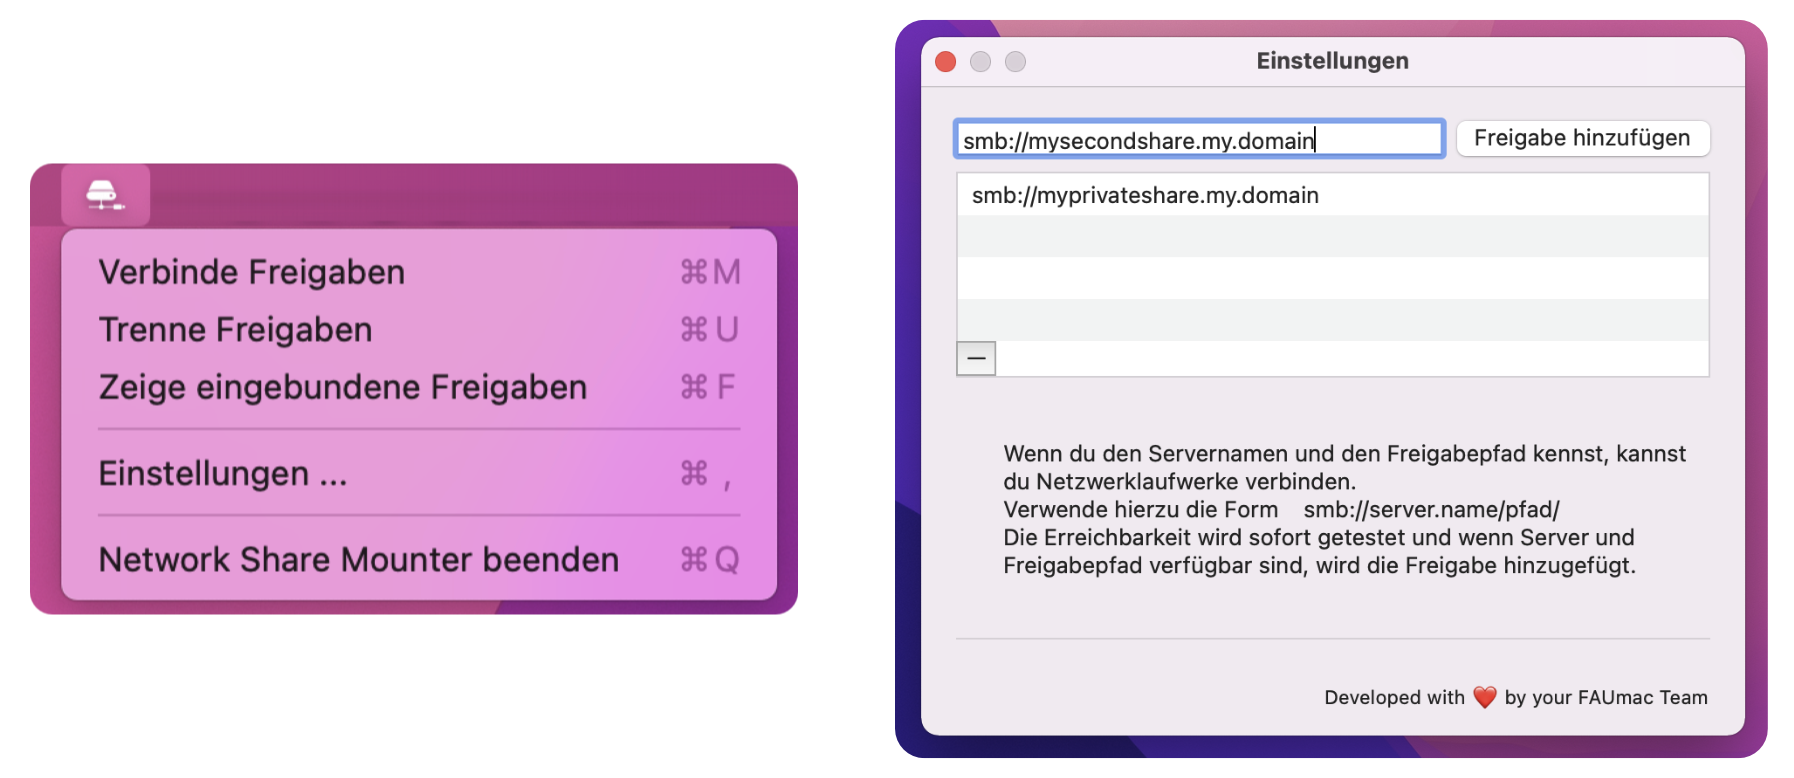
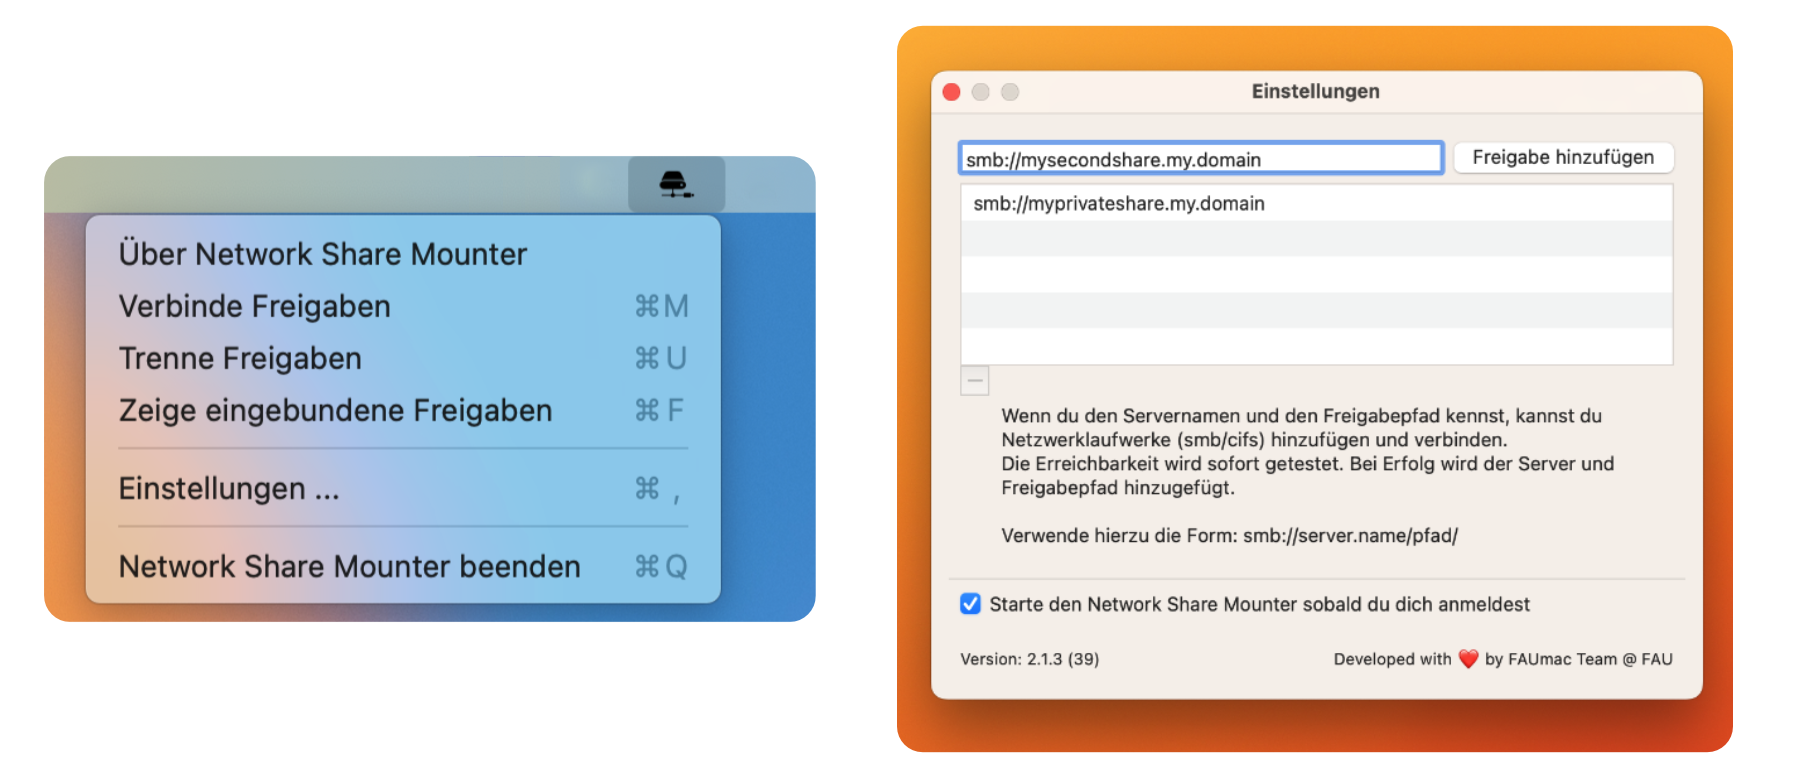
Update README.md and upload new screenshot
- remove doc for the legacy app
- update screenshot with updated gui elements
-

diff --git a/README.md b/README.md
@@ -1,100 +1,77 @@
-# <img src="networkShareMounter.png" alt="drawing" width="90px"/> networkShareMounter
+# <img src="networkShareMounter.png" alt="drawing" width="90px"/> Network Share Mounter 
 
-In a university, there is a requirement that departments have specific SMB shares on their own network that users should mount. In the same way, in a company - depending on the department or location - there could also be different shares that are to be used. The idea behind the networkShareMounter is that there is a single application that takes care of mounting a list of network shares in an enterprise or university environment. Such a list of shares will be ideally distributed as configuration profiles with an MDM based on workgroups, departments, project-groups etc.
+In a university or company envirement there is usually the requirement to mount specific SMB shares depending on departments or locations - usually even several shares depending on the current location. The macOS in-build way to mount shares isn't very userfriendly or a good solutions for enterprise envirements. Therefore solutions using scripts or other tools are often static and inflexible for users. In order to create a prefect solution for administrators _and_ end users, we developed the Network Share Mounter.
 
-Based on the network accessibility, the shares are mounted in the background without any user interaction. Even if a mount fails (e.g. if the share is unreachable), no GUI will be displayed. A Kerberos environment is therefore recommended so that no authentication is required for a mount. Alternatively, the user credentials can also be stored in the user's keychain by manually mounting a share once. So please note that no notification will be displayed if the credantials are invalid or unavailable!  
+The idea behind Network Share Mounter is that a single application takes care of mounting a list of network shares. The share list is ideally distributed as a configuration profile with an MDM solution based on workgroups, departments, project groups, etc. If a user needs additional shares, besides the managed ones, a user can add shares by himself in the menu bar.   
+Based on the network accessibility, shares are mounted in the background without any user interaction. Even if a mount fails (e.g. if the share is unreachable), no GUI will be displayed. A Kerberos environment is therefore recommended so that no authentication is required for a mount. Alternatively, the user credentials can also be stored in the user's keychain by manually mounting a share once. So please note, that no notification will be displayed if the credantials are invalid or unavailable!  
 
 **Configuration**  
-Network shares are stored in a NSUserdefaults domain among other configurable aspects of the app. The easiest way to do this is to create a configuration profile and distribute is via MDM. Alternatively, the configuration can also be done manually via the command line. As a tip: to avoid creating a profile for every user, use %USERNAME% which will be replaced with the login name of the current user. See [configuration preferences](#configuration-preferences) in v2 for all available values. 
+Network shares are stored in a NSUserdefaults domain among other configurable aspects of the app. The easiest way to configure the app is to create a configuration profile and distribute the profile via MDM. Alternatively, the configuration can also be done manually via the command line (i.g. defaults).   
+As a tip: to avoid creating a profile for every user, use `%USERNAME%` which will be replaced with the login name of the current user. See [configuration preferences](#configuration-preferences) for all available values. 
 
 **SMBHome**  
-If the current user has the attribute `SMBHome` defined via LDAP or Active Directory, the user home will also be mounted automatically. This is usually the case when the Mac is bound to an Active Directory and the LDAP attribute `HomeDirectory` is set. You can also set it for a local user if you want: `dscl . create /Users/<yourusername> SMBHome \home.your.domain<yourusername>`.
+If the current user has the attribute `SMBHome` defined via LDAP or Active Directory, the user home will be mounted automatically. This is usually the case when the Mac is bound to an Active Directory and the LDAP attribute `HomeDirectory` is set. If necessery, you can set the attribute for a local user manuelly:  
+ `dscl . create /Users/<yourusername> SMBHome \home.your.domain<yourusername>`.
 
-**v2 and Legacy?**  
-Staring with December 2021 there are two different versions of the app: The [background LaunchAgent comamnd line application](#networksharemounter-legacy-the-command-line-app) legacy app (not under active development anymore) and a [menu bar based app](#network-share-mounter-v2) with more configuration options and features for end users. 
+### ⚙ Configuration preferences
+For an easier configuration of all the preference keys without creating or modifying a custom Configuration Profile in XML format we provieded a JSON Manifest Schema for Jamf Pro. [Download the manifest file](https://gitlab.rrze.fau.de/faumac/networkShareMounter/-/blob/master/jamf-manifests/Network%20Share%20Mounter.json). We also added a manifest to the [iMazing Profile Edior](https://imazing.com/profile-editor). 
 
-## Network Share Mounter (v2)
-The *Network Share Mounter* app is loosely based on the code of the command line version. It lives in the user's menu bar and is more visible and manageable for the user, as it has the possibility to add some (additional personal) shares to be mounted or the user can decide if the app will be automatically started on login. 
+ The defaults domain for v2 is `de.fau.rrze.NetworkShareMounter`. Available payload values: 
 
-### Configuration preferences
-For an easier configuration of all the preference keys without creating or modifying a custom Configuration Profile in XML format we provieded a JSON Manifest Schema for Jamf Pro. [Download the manifest file](https://gitlab.rrze.fau.de/faumac/networkShareMounter/-/blob/master/jamf-manifests/Network%20Share%20Mounter.json). 
-
- The defaults domain for v2 is `de.fau.rrze.NetworkShareMounter`. List with all available values: 
-
-| Key                 | Type  | Description            | Default Value | Aviable in version | Required? | Example |
+| Key                 | Type  | Description            | Default value | Aviable with version | Required? | Example |
 | :------------------ | :---- | :---------------------|:-------------------------------------- | --------------------------------- | ------- | ---- |
-| `networkShares`     | Array | Array with all (SMB) network shares. For example configured through a MDM. Note: %USERNAME% will be replaced with the current user's login name.| - | all | - |`smb://filer.your.domain/share`<br />`smb://homefiler.your.domain/%USERNAME%`|
-| `customNetworkShares` | Array | Array with all user configured (SMB) network shares. It's not recommend to set this array via MDM | - | all | optional |`smb://myhomefiler.my.domain/share`|
-| `autostart` | Boolean | If set, the app will be launched on user-login | false | >=2.0.0 | optional ||
-| `canQuit` | Boolean | If set, the user can quit the app | true | >=2.0.0 | optional ||
-| `canChangeAutostart` | Boolean | If set to false, the user can not change the Autostart option | true | >=2.0.0 | optional ||
-| `unmountOnExit` | Boolean | If set to false the shares will be mounted after quitting the app | true | >=2.0.0 | optional ||
-| `location` | String | Path where network shares will be mounted. Leave blank for the default value (highly recommended) | - | >=2.1.0 | optional | `/Volumes` |
-| `cleanupLocationDirectory` | Boolean | * Directories named like the designated mount points for shares will be deleted, independently of the `cleanupLocationDirectory` flag. * Directories named like the shares with a "-1", "-2", "-3" and so on will also be deleted independently of the the flag. * If set to true, the mount location will be cleaned up from files defined in the `filesToDelete` array. (The previous settings where too dangerous 😉)| false | >=2.1.0 | - | `false` |
-| `helpURL` | String | Configure a help URL to help users interact with the application | - | >=2.0.0 | optional |https://www.anleitungen.rrze.fau.de/betriebssysteme/apple-macos-und-ios/macos/#networksharemounter|
+| `networkShares`     | Array | Array with all (SMB) network shares.    <br />Note: `%USERNAME%` will be replaced with the login name of the current user. | - | all | - |`smb://filer.your.domain/share`<br />`smb://homefiler.your.domain/%USERNAME%`|
+| `customNetworkShares` | Array | Array with all user configured (SMB) network shares. <br />It's not recommend to configure this array via MDM. | - | all | optional |`smb://myhomefiler.my.domain/share`|
+| `autostart` | Boolean | If true, the app will be launched upon user login. | false | >=2.0.0 | optional ||
+| `canQuit` | Boolean | If true, the user can exit the app in the menu bar. | true | >=2.0.0 | optional ||
+| `canChangeAutostart` | Boolean | If set to false, the user can not change the autostart option. | true | >=2.0.0 | optional ||
+| `unmountOnExit` | Boolean | If set to false, the shares will be mounted after quitting the app. | true | >=2.0.0 | optional ||
+| `location` | String | Path where network shares will be mounted. <br />Leave blank for the default value *(highly recommended)* | - | >=2.1.0 | optional | `/Volumes` |
+| `cleanupLocationDirectory` | Boolean | 1) Directories named like the designated mount points for shares will be deleted, independently of the `cleanupLocationDirectory` flag.    <br /><br />2) Directories named like the shares with a "-1", "-2", "-3" and so on will also be deleted independently of the the flag.    <br /><br />3) If set to true, the mount location will be cleaned up from files defined in the `filesToDelete` array.   <br />*(The previous setting where too dangerous)* | false | >=2.1.0 | - | `false` |
+| `helpURL` | String | Configure a website link to help users interact with the application. | - | >=2.0.0 | optional |https://www.anleitungen.rrze.fau.de/betriebssysteme/apple-macos-und-ios/macos/#networksharemounter|
 
-#### Important note for `location` and `cleanupLocationDirectory` values
-If `location` is left empty (or is not defined), a directory is created in a subdirectory of the user's home where the network drives will be mounted. Since this directory always contains only mounted network shares, there is a routine that cleans up this directory and deletes unnecessary files and directories.    
-If another directory is used to mount the network drives (like `location` set to, for example, `/Volumes`) **it is strongly recommended** to disable the cleanup routine by setting `cleanupLocationDirectory` to `false`.
+#### ⚠ Important note for `location` and `cleanupLocationDirectory` values
+If the value `location` left empty (or undefined), the directory (`~/Netzlaufwerk`) will be created as a subdirectory of the user's home where the network shares will be mounted. Since this directory always contains only mounted network shares, there is a routine to clean up this directory and deletes unnecessary files and directories.    
+If another directory is used to mount the network drives (like `location` = `/Volumes`) **it is strongly recommended** to disable the cleanup routine by setting `cleanupLocationDirectory` to `false` !
 
 ### Screenshots
-Screenshots of our Network Share Mounter app. On the left the menu bar icon with the mount, unmount and quit options. On the right the configuration window with the custom network share list:
+Screenshots of the Network Share Mounter app. On the left the menu bar icon with the mount, unmount and quit option. On the right the configuration window with the custom network share list.
 
 <img src="networkShareMounterv2Screenshot.png" />  
 
-----  
-
-## networkShareMounter Legacy (the command line app)
-
-The legacy networkShareMounter is started by a [LaunchAgent](https://gitlab.rrze.fau.de/faumac/networkShareMounter/-/blob/master/networkShareMounter/de.uni-erlangen.rrze.networkShareMounter.plist) at every network change (for automatic remounting) and when a user logs in. This process is done in the background, without any user interaction. 
-
-### How to configure the command line app
-
-The defaults domain for our [pre-built package](https://gitlab.rrze.fau.de/faumac/networkShareMounter/-/releases) is `de.uni-erlangen.rrze.networkShareMounter`. If you want to distribute the plist with a configuration profile you have to do it with the payload `com.apple.ManagedClient.preferences` like this:
-
-```xml
-<?xml version="1.0" encoding="UTF-8"?>
-<!DOCTYPE plist PUBLIC "-//Apple//DTD PLIST 1.0//EN" "http://www.apple.com/DTDs/PropertyList-1.0.dtd">
-<plist version="1.0">
-<dict>
-	<key>networkShares</key>
-	<array>
-		<string>smb://home.your.domain/%USERNAME%</string>
-		<string>smb://filer1.your.domain/share</string>
-		<string>smb://filer2.your.domain/another share/foobar</string>
-	</array>
-</dict>
-</plist>
-```
-
-[Download example Configuration Profile](https://gitlab.rrze.fau.de/faumac/networkShareMounter/-/blob/master/jamf-manifests/networkShareMounter%20Legacy.mobileconfig).
-
-If you want to configure shares manually, you can use this command:
-
-```bash
-defaults write de.uni-erlangen.rrze.networkShareMounter networkShares -array "smb://filer.your.domain/share" "smb://filer2.your.domain/home/Another Share/foobar" "smb://home.your.domain/%USERNAME%"
-```
-
-```bash
-defaults write de.uni-erlangen.rrze.networkShareMounter customNetworkShares -array "smb://private.filer.home/share"
-```
-
-### Optional paramater and options
-
-* With the optional array  `customNetworkShares`  users can add own network shares to the configuration. See manually confiugration above for detauls.
-* There is an optional parameter `--openMountDir` which opens a new finder window of the networkShareMounter mount directory. (e.g. "\~/Network shares" or "\~/Netzlaufwerke")
-* If you want to change the installation directory, go to **Build Settings** > **Deployment** > **Installation Directory**. But keep in mind that you also have to change the path of the LaunchAgent (command line version). 
-
 ## FAQ
-### 1) Jamf recon stuck with configured Network Share Mounter app
+##### **1) What are the difference between the v2 and legacy app?**  
+
+Staring with December 2021 there are two different versions of the app: the legacy background LaunchAgent comamnd line application (not under active development anymore) and the menu bar based app (v2) with more configuration options and features for end users. Since 2023 the documation for the legacy app has been removed.
+
+##### **2) Jamf recon stuck with configured Network Share Mounter app**  
 This is probably due the innventory collection configuration "Include home directory sizes" in Jamf (Pro). Both Network Share Mounter versions, v2 and legacy, mounting the shares in the users home (~/Network Shares). If the option is now enabled, Jamf will also try to collect the size of the network share mounter mounts and the process get stuck.
 
 To resolve this behaviour, go to **Settings > Computer Management - Management Framework > Inventory Collection** and disable the option **Include home directory sizes**.
 
+##### 3) Autostart 
+
+There are several possibilities to accomplish the autostart at login. For example the Apple way,as it is also defined in the Apple App Store Guidline. **But the app *has* to be started at least one time**.  
+If you're using a MDM solution like *Jamf Pro* you can create a policy to start the Network Share Mounter _once per user and computer_. If done, your MDM trigger the first run. After that, the app will open on every log-in. Example: 
+
+- Policy: `Autostart Network Share Mounter`
+  - Trigger: `Login`
+- - Frequency: `Once per user per computer`
+  - Scope: `Network Share Mounter installed`
+  - Policy content:
+  - - Run Unix command: `sudo -u $(/usr/bin/stat -f%Su /dev/console) open -a /Applications/Network\ Share\ Mounter.app`
+
+##### **4) Managed Login Itmes with macOS Ventura**
+
+With macOS Ventura, Apple has added a feature to show apps which are starting and working in the background. Users also have the posibillity to enable or disable these specific apps. To prevent disabling the Network share Mounter autostart you can add a [managed login item](https://support.apple.com/guide/deployment/managed-login-items-payload-settings-dep07b92494/web)" payload to the Network Share Mounter configuration profile or create a seperate profile containing the necessery values. Example:
+
+* Rule Type: `Bundle Identifier`
+* Rule Value: `de.fau.rrze.NetworkShareMounter`
+* Rule Comment: `Prevent disabling the Network Share Mounter autostart`
+
 ## Contact
+
 Feel free to contact us for ideas, enhancements or bug reports at the [service desk address](mailto:rrze-gitlab+faumac-networksharemounter-506-issue-@fau.de).    
 For general questions you can write directly to the team at [rrze-mac@fau.de](mailto:rrze-mac@fau.de).
 
-
 `Developed with ❤ by your FAUmac team`
-
